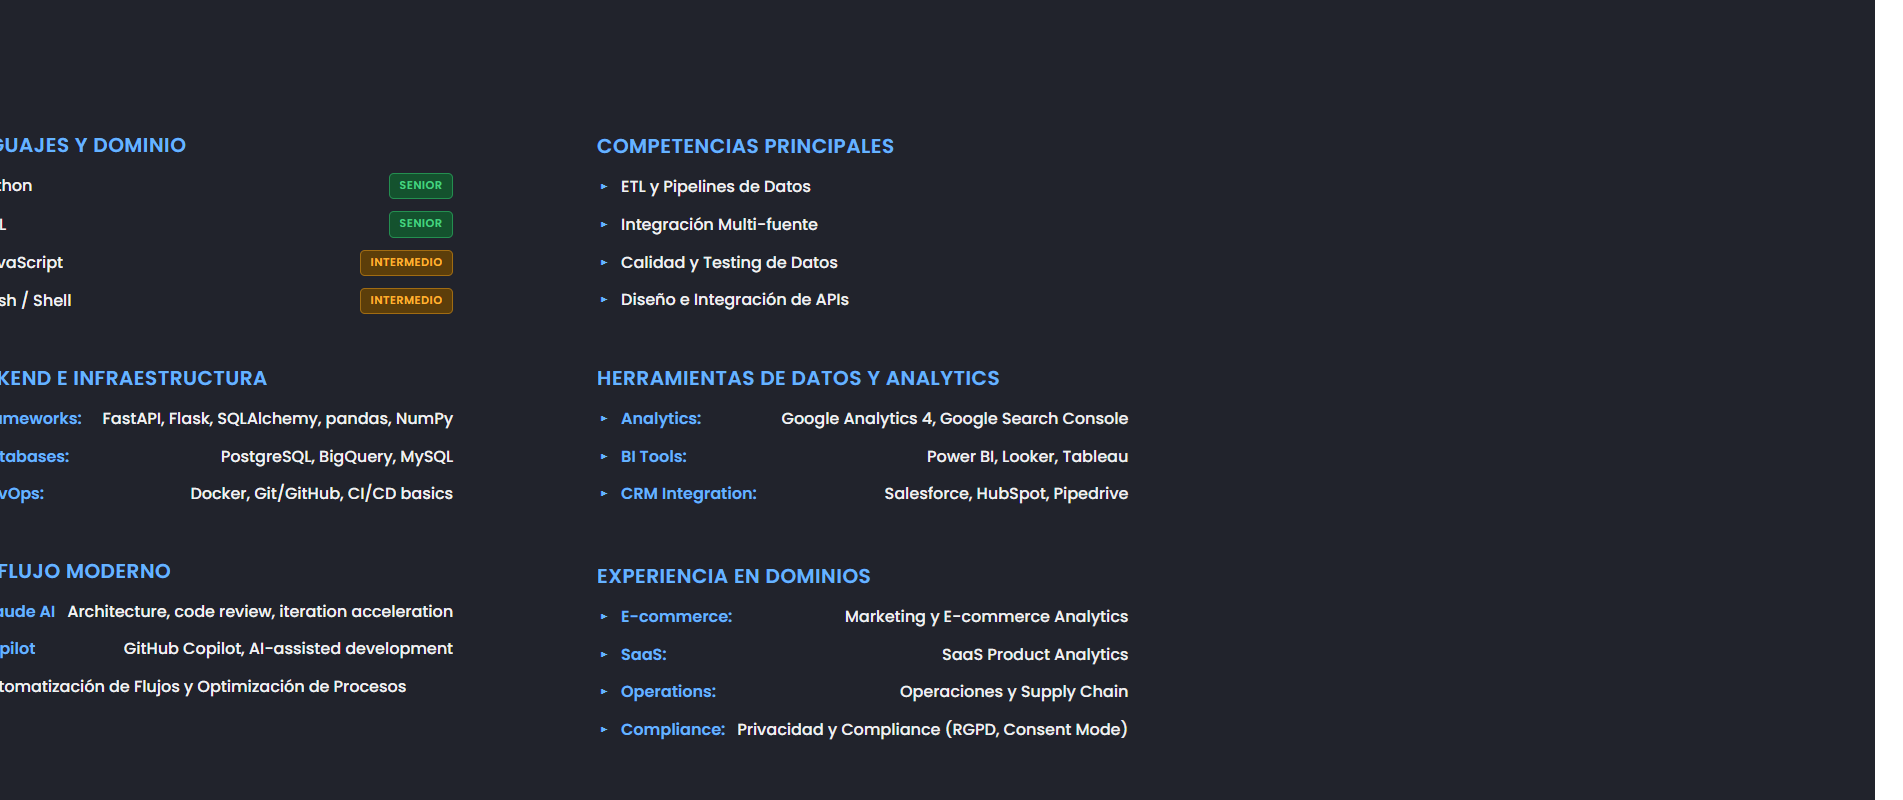
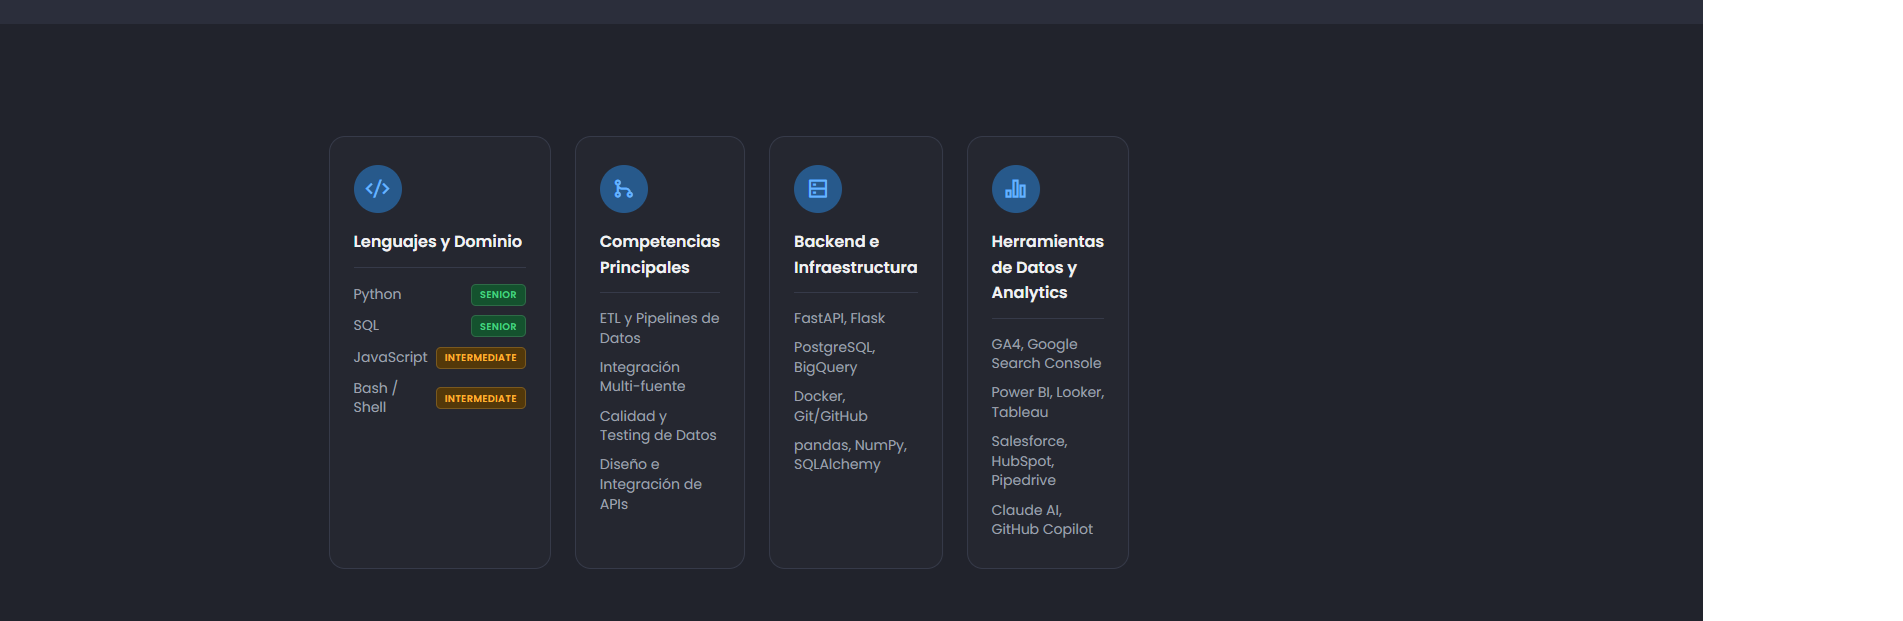
Skills: expand container width for data role to fill section
Override container max-width for data role so the 4 skill group
cards use the full section width instead of being constrained
to 1120px.

diff --git a/styles.css b/styles.css
@@ -315,6 +315,12 @@ body[data-role="game"] .skills__container {
 .skills__data { text-align: center; }
 body[data-role="game"] .skills__data { text-align: initial; }
 body[data-role="data"] .skills__data { display: none !important; }
+body[data-role="data"] .skills__container {
+  grid-template-columns: 1fr;
+  max-width: 100%;
+  margin-inline: 0;
+  padding: 0 2rem;
+}
 .skills__description { margin-bottom: 2rem; }
 
 /* Game Dev list */
@@ -340,7 +346,8 @@ body[data-role="game"] .skills__content {
   background-color: rgba(255, 255, 255, 0.02);
   border: 1px solid hsl(228, 15%, 25%);
   border-radius: 1rem;
-  padding: 1.75rem 1.5rem;
+  padding: 2rem;
+  min-height: 280px;
   transition: border-color 0.3s, transform 0.3s;
 }
 

diff --git a/index.html b/index.html
@@ -211,7 +211,7 @@
 
                         <!-- Core Competencies -->
                         <div class="skill-group">
-                            <div class="skill-group__icon"><i class="ri-flow-chart-line"></i></div>
+                            <div class="skill-group__icon"><i class="ri-git-merge-line"></i></div>
                             <h4 class="skill-group__title" data-i18n="skills.core.title">Core Competencies</h4>
                             <ul class="skill-group__list">
                                 <li><span class="skill-group__name" data-i18n="skills.core.etl">ETL & Data Pipelines</span></li>
